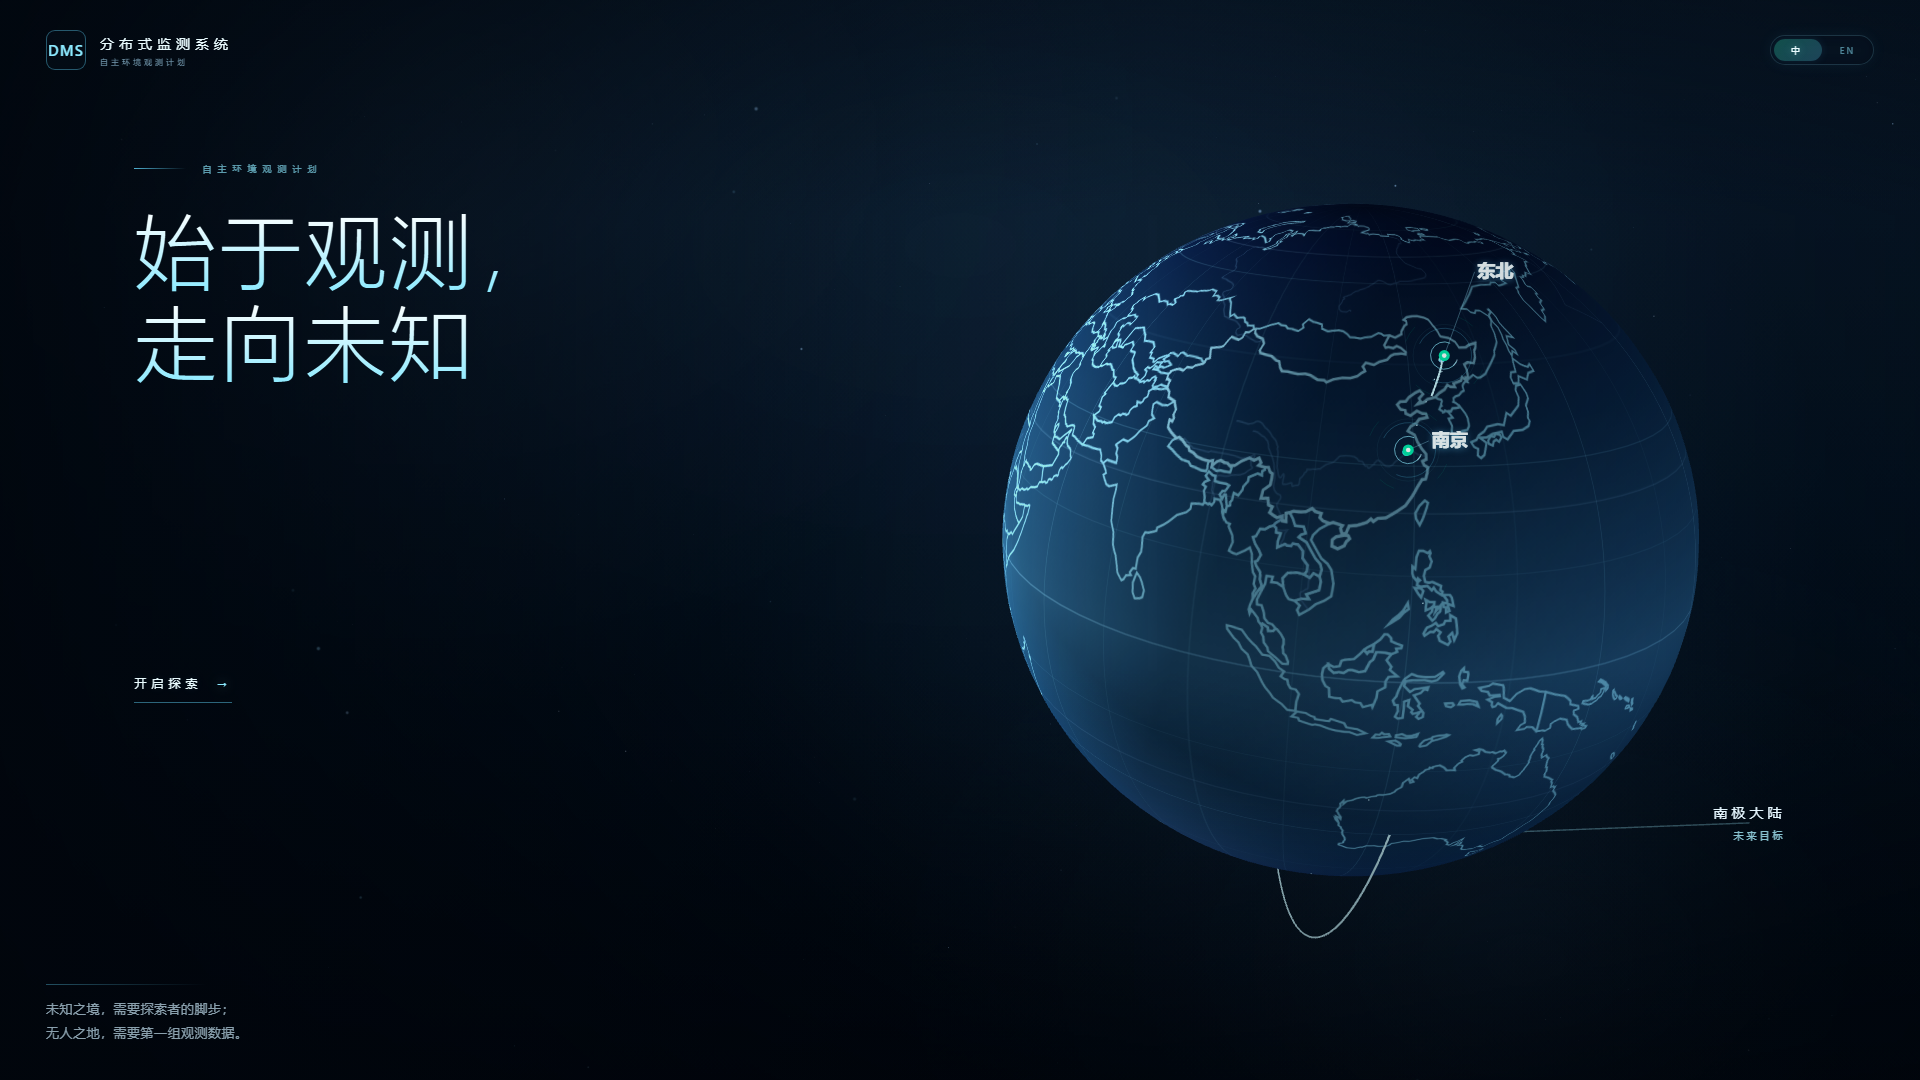
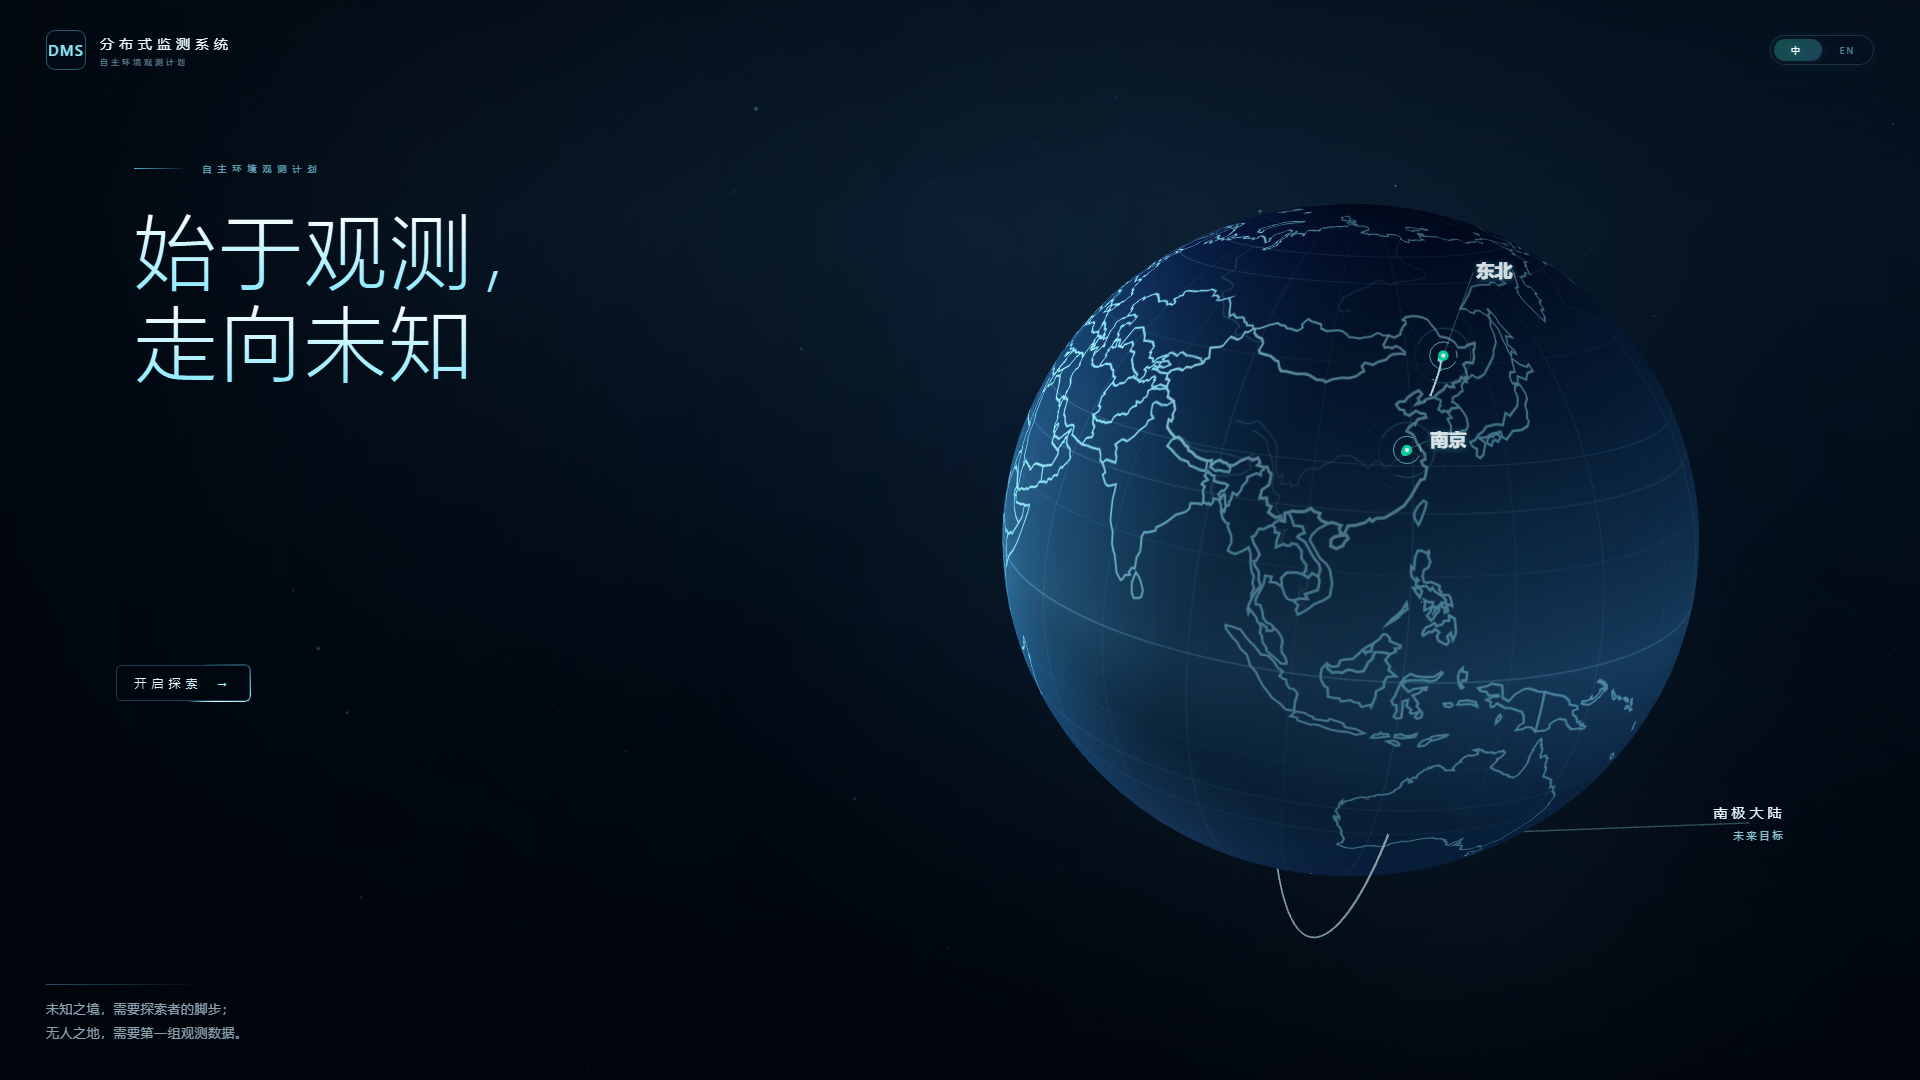
optimize dashboard status display

diff --git a/index.html b/index.html
@@ -90,30 +90,24 @@
     .home-page.loaded .hero h1{opacity:1;transform:none;transition:opacity 1s ease .55s,transform 1s ease .55s}
     /* V49.2 · 精简说明文字后的留白层级：标题 → 探索按钮 */
     /* V49.39 · 探索入口：主标题与理念文案之间的行动节点（Mission Pulse） */
-    /* V49.45 · MISSION LOCK 强化：四角更亮更长、扫描更明显、箭头推进更大、脉冲+余辉（位置完全不变） */
-    .hero .btn{position:fixed;left:7vw;top:61.7%;display:inline-block;padding:8px 18px 12px 0;font-size:12px;letter-spacing:5px;color:#eafcff;text-decoration:none;text-transform:uppercase;cursor:pointer;border:0;background:none;font-family:inherit;opacity:0;transform:translateY(14px);animation:lockGlow 4.2s ease-in-out infinite}
+    /* V49.49 · 外框居中留白 + 边框流光强化 + 文字流光强化（文字位置完全不变） */
+    .hero .btn{position:fixed;left:7vw;top:61.7%;display:inline-block;padding:8px 18px 12px 0;font-size:12px;letter-spacing:5px;color:#eafcff;text-decoration:none;text-transform:uppercase;cursor:pointer;border:0;background:none;font-family:inherit;opacity:0;transform:translateY(14px);border-radius:4px}
     .hero .btn-ghost{display:block;height:calc(9vh + 36px)}
-    .hero .btn::after{content:"";position:absolute;left:0;right:18px;bottom:0;height:1px;background:rgba(98,217,255,.45);transition:background .35s ease}
-    .hero .btn::before{content:"";position:absolute;left:0;top:-6px;bottom:-6px;width:4px;border-radius:2px;background:linear-gradient(180deg,rgba(140,234,255,0),rgba(200,250,255,1),rgba(140,234,255,0));box-shadow:0 0 14px rgba(140,234,255,1),0 0 26px rgba(98,217,255,.55);opacity:0;animation:lockScan 4.2s ease-in-out infinite}
-    .hero .btn .ck{position:absolute;width:25px;height:25px;opacity:0;pointer-events:none;animation:lockCorner 4.2s ease-out infinite}
-    .hero .btn .ck1{top:-7px;left:-7px;border-top:2.5px solid rgba(175,242,255,1);border-left:2.5px solid rgba(175,242,255,1);box-shadow:0 0 8px rgba(140,234,255,.7)}
-    .hero .btn .ck2{top:-7px;right:-7px;border-top:2.5px solid rgba(175,242,255,1);border-right:2.5px solid rgba(175,242,255,1);box-shadow:0 0 8px rgba(140,234,255,.7);animation-delay:.06s}
-    .hero .btn .ck3{bottom:-7px;right:-7px;border-bottom:2.5px solid rgba(175,242,255,1);border-right:2.5px solid rgba(175,242,255,1);box-shadow:0 0 8px rgba(140,234,255,.7);animation-delay:.12s}
-    .hero .btn .ck4{bottom:-7px;left:-7px;border-bottom:2.5px solid rgba(175,242,255,1);border-left:2.5px solid rgba(175,242,255,1);box-shadow:0 0 8px rgba(140,234,255,.7);animation-delay:.18s}
-    .hero .btn .pulse{position:absolute;left:-6px;right:-6px;top:-6px;bottom:-6px;border-radius:6px;border:1.5px solid rgba(140,234,255,.85);box-shadow:0 0 18px rgba(98,217,255,.4),inset 0 0 12px rgba(98,217,255,.2);opacity:0;animation:lockPulse 4.2s ease-out infinite;pointer-events:none}
-    .hero .btn b{color:#8ceaff;font-weight:400;margin-left:14px;display:inline-block;animation:lockArrow 4.2s ease-in-out infinite}
-    .hero .btn:hover{color:#fff;text-shadow:0 0 14px rgba(135,228,255,.55);box-shadow:0 0 0 1px rgba(150,240,255,.4)}
-    .hero .btn:hover b{color:#e8fbff;transform:translateX(5px)}
-    .hero .btn:hover .ck{animation:none;opacity:1}
-    .hero .btn:hover::after{background:rgba(160,242,255,.95)}
-    .hero .btn:active{color:#fff;text-shadow:0 0 24px rgba(165,244,255,1),0 0 50px rgba(98,217,255,.6)}
-    .hero .btn:focus-visible{outline:1px solid rgba(140,234,255,.75);outline-offset:10px;border-radius:2px}
-    .home-page.loaded .hero .btn{opacity:1;transform:none;transition:opacity 1s ease .85s,transform 1s ease .85s}
-    @keyframes lockCorner{0%,2%{opacity:0;transform:scale(.75)}4.5%{opacity:1;transform:scale(1)}20%{opacity:.85}22%{opacity:1;filter:brightness(2)}25%,100%{opacity:0;filter:brightness(1)}}
-    @keyframes lockScan{0%,12%{left:0;opacity:0}13%{opacity:1}20.5%{left:calc(100% - 4px);opacity:1}22.5%,100%{left:calc(100% - 4px);opacity:0}}
-    @keyframes lockGlow{0%,12%,28%,100%{color:#eafcff;text-shadow:0 0 8px rgba(98,217,255,.12),0 0 22px rgba(98,217,255,.05)}15%{color:#fff;text-shadow:0 0 20px rgba(165,244,255,1),0 0 55px rgba(98,217,255,.65)}20%{color:#fff;text-shadow:0 0 16px rgba(165,244,255,.7),0 0 42px rgba(98,217,255,.4)}22.5%{color:#fff;text-shadow:0 0 24px rgba(170,246,255,1),0 0 65px rgba(98,217,255,.8)}26%,100%{color:#eafcff;text-shadow:0 0 8px rgba(98,217,255,.12),0 0 22px rgba(98,217,255,.05)}}
-    @keyframes lockArrow{0%,21%,30%,100%{transform:translateX(0);color:#8ceaff}23%{transform:translateX(18px);color:#f0fdff;text-shadow:0 0 16px rgba(180,245,255,1),0 0 34px rgba(98,217,255,.75)}27%{transform:translateX(18px);color:#d5f7ff}30%{transform:translateX(0);color:#8ceaff}}
-    @keyframes lockPulse{0%,27%{opacity:0;transform:scale(.9)}29%{opacity:.95;transform:scale(1)}34%{opacity:0;transform:scale(1.22)}37%{opacity:.45;transform:scale(1.08)}42%,100%{opacity:0;transform:scale(1.12)}}
+    .hero .btn::after{content:"";position:absolute;inset:-2px 0 2px -18px;border:1px solid rgba(98,217,255,.28);border-radius:5px;pointer-events:none;transition:border-color .3s ease}
+    .hero .btn::before{content:"";position:absolute;inset:-3px -1px 1px -19px;border-radius:6px;padding:1px;background:conic-gradient(from var(--flow-angle),rgba(98,217,255,0) 0 62%,rgba(98,217,255,.32) 70%,rgba(150,238,255,.92) 78%,#f0fdff 83%,rgba(150,238,255,.82) 87%,rgba(98,217,255,.26) 93%,rgba(98,217,255,0) 98%);-webkit-mask:linear-gradient(#000 0 0) content-box,linear-gradient(#000 0 0);-webkit-mask-composite:xor;mask:linear-gradient(#000 0 0) content-box,linear-gradient(#000 0 0);mask-composite:exclude;animation:flowBorder 2.8s linear infinite;pointer-events:none}
+    .hero .btn .btn-txt{color:transparent;background:linear-gradient(105deg,#eafcff 0%,#eafcff 43%,#bdeaf7 47%,#ffffff 50%,#bdeaf7 53%,#eafcff 57%,#eafcff 100%);background-size:220% 100%;background-position:200% 0;-webkit-background-clip:text;background-clip:text;animation:txtFlow 3.4s ease-in-out infinite}
+    .hero .btn b{color:#8ceaff;font-weight:400;margin-left:14px;display:inline-block;transition:transform .3s ease,color .3s ease}
+    .hero .btn:hover{filter:brightness(1.15)}
+    .hero .btn:hover b{color:#e8fbff;transform:translateX(4px)}
+    .hero .btn:hover::after{border-color:rgba(150,240,255,.55)}
+    .hero .btn:hover::before{animation-duration:2s}
+    .hero .btn:hover .btn-txt{animation-duration:2.2s}
+    .hero .btn:active{filter:brightness(1.4)}
+    .hero .btn:focus-visible{outline:1px solid rgba(140,234,255,.75);outline-offset:10px;border-radius:4px}
+    .home-page.loaded .hero .btn{opacity:1;transform:none;transition:opacity 1s ease .85s,transform 1s ease .85s,filter .3s ease}
+    @property --flow-angle{syntax:'<angle>';inherits:false;initial-value:0deg}
+    @keyframes flowBorder{to{--flow-angle:360deg}}
+    @keyframes txtFlow{0%,72%{background-position:200% 0}94%{background-position:-100% 0}100%{background-position:-100% 0}}
 
     /* V49.41 · 恢复“未知之境”原始左下角位置（依据 git HEAD：position:fixed;left:46px;bottom:34px） */
     .manifesto{position:fixed;left:46px;bottom:34px;z-index:12;max-width:480px;pointer-events:none;opacity:0;transition:opacity 1.2s ease 1.05s}
@@ -171,7 +165,6 @@
       .hero h1{font-size:clamp(30px,9vw,44px);letter-spacing:2px}
       .hero .btn{left:22px;top:81%;font-size:11px;letter-spacing:3px}
       .hero .btn-ghost{height:calc(7vh + 35px)}
-      .hero .btn .ck{animation-delay:0s;width:18px;height:18px}
       html[data-lang="en"] .hero h1{font-size:clamp(28px,8vw,36px);line-height:1.14}
       .manifesto{left:22px;right:22px;bottom:18px;max-width:none}
       .manifesto p{font-size:11px}
@@ -206,12 +199,7 @@
       </h1>
       <div class="btn-ghost" aria-hidden="true"></div>
       <button type="button" class="btn" id="exploreBtn">
-        <i class="ck ck1" aria-hidden="true"></i>
-        <i class="ck ck2" aria-hidden="true"></i>
-        <i class="ck ck3" aria-hidden="true"></i>
-        <i class="ck ck4" aria-hidden="true"></i>
-        <span class="pulse" aria-hidden="true"></span>
-        <span data-lang="en">Start Exploration</span><span data-lang="zh">开启探索</span><b>→</b>
+        <span class="btn-txt" data-lang="en">Start Exploration</span><span class="btn-txt" data-lang="zh">开启探索</span><b>→</b>
       </button>
     </div>
   </section>
